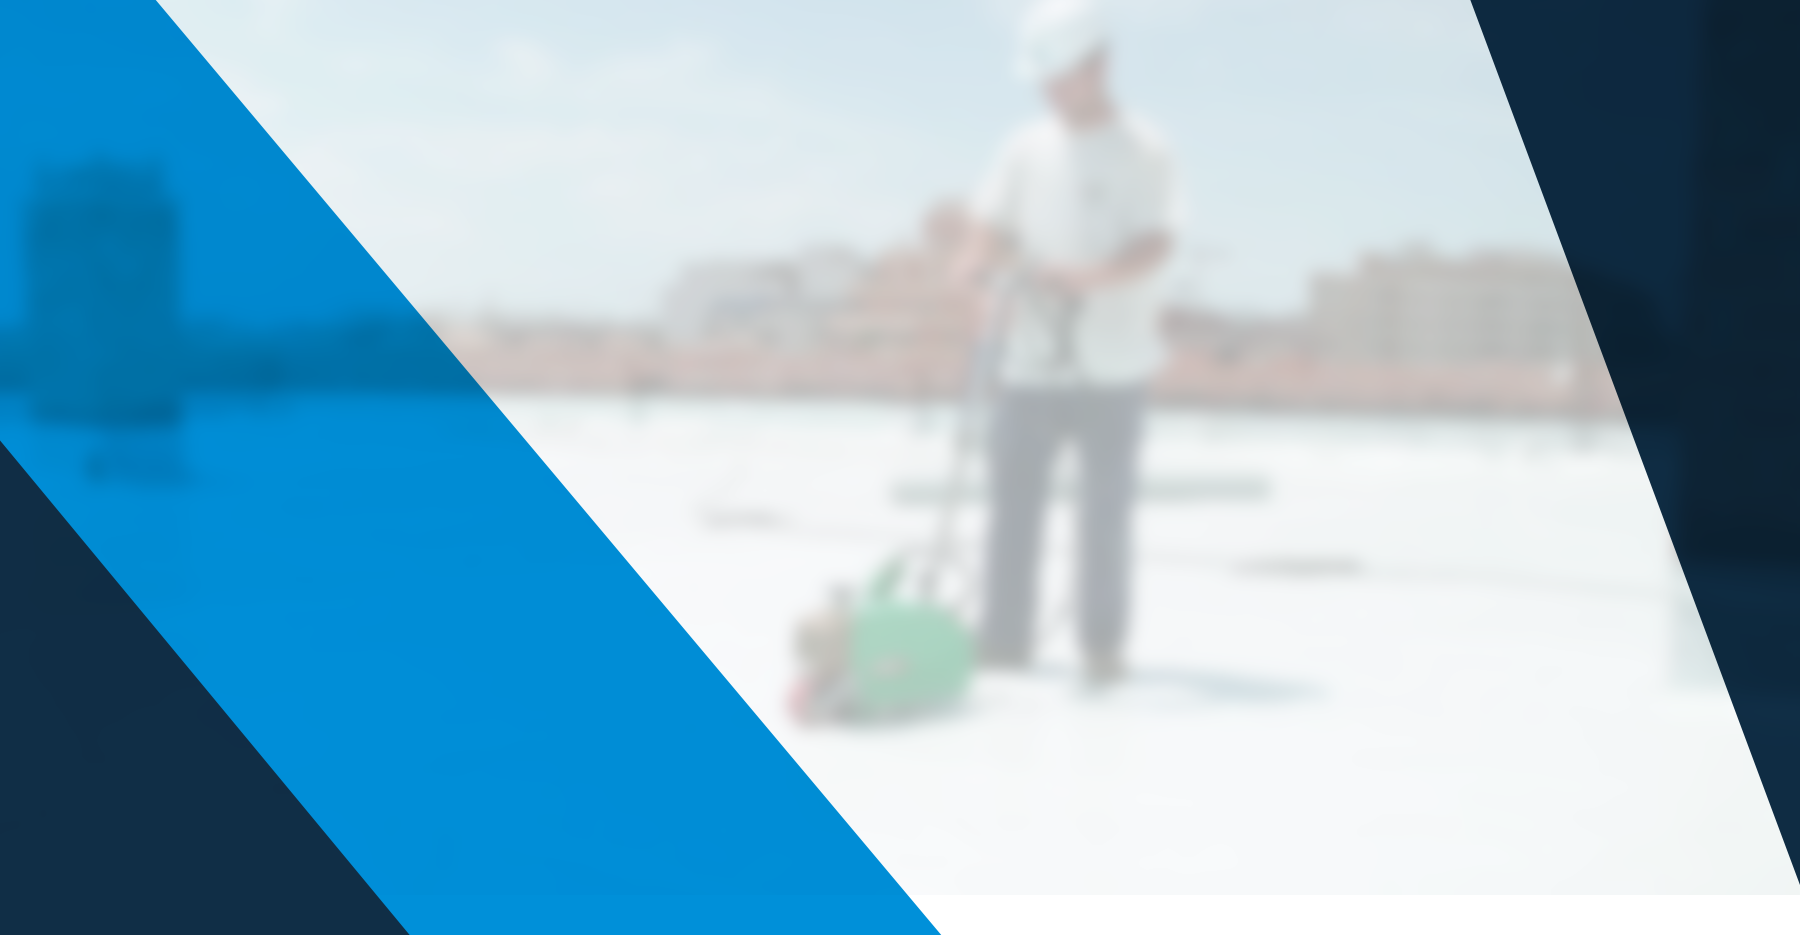
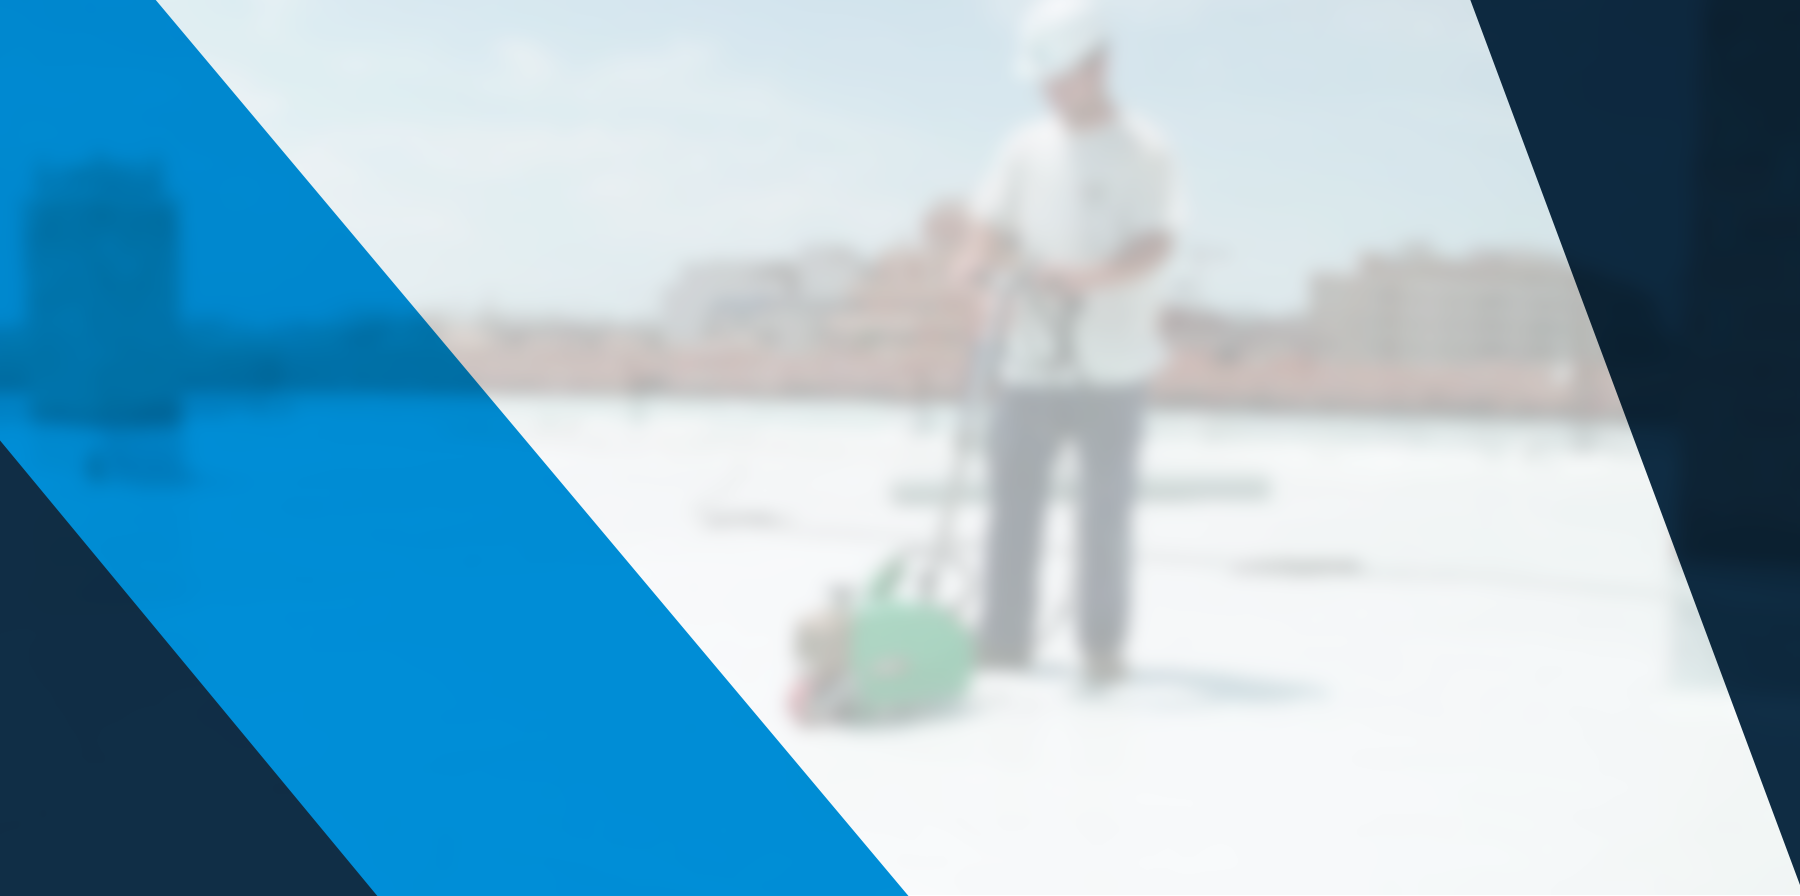
Background fix on servicios.

diff --git a/style.css b/style.css
@@ -639,7 +639,7 @@ Text Domain:
 
 /* SERVICIOS */
 .servicios{
-    background: url(img/backgrounds/servicios.png) no-repeat center center!important;
+    background: url(img/backgrounds/servicios.png) no-repeat center center;
     background-size: cover;  
 }
 
